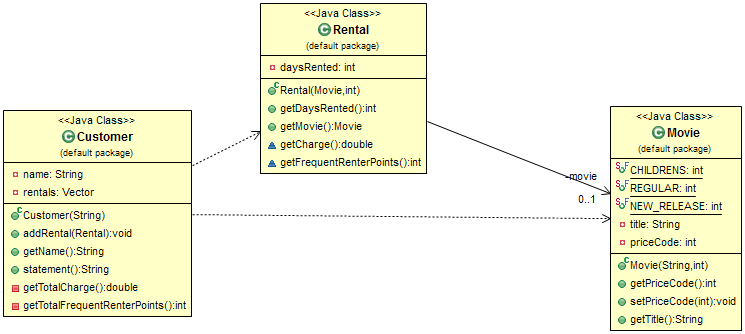
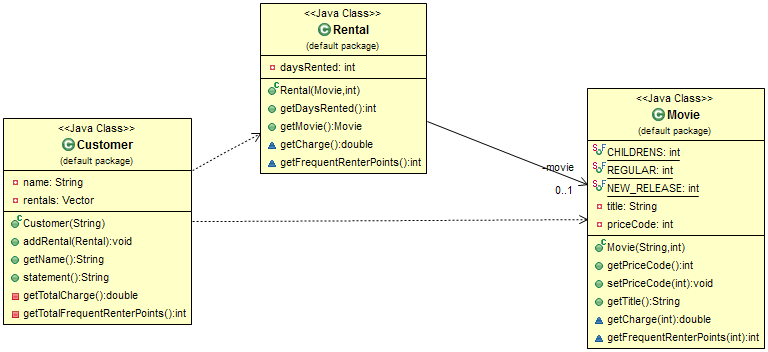
Change: Used Move Methode(http://refactoring.com/catalog/moveMethod.html) to move getCharge() and getFrequentRenterPoints() to Movie according to Fowler; Updated Class Diagram and Metrics

Changed region(s): [[0.0, 0.0, 1.0, 1.0]]

diff --git a/src/Rental.java b/src/Rental.java
@@ -12,30 +12,9 @@ class Rental {
         return movie;
     }
 	double getCharge() {
-		double result = 0;
-		//determine amounts for each line
-	    switch (getMovie().getPriceCode()) {
-	        case Movie.REGULAR:
-	        	result += 2;
-	        	if (getDaysRented() > 2)
-	            	result += (getDaysRented() - 2) * 1.5;
-	        	break;
-	        case Movie.NEW_RELEASE:
-	        	result += getDaysRented() * 3;
-	        	break;
-	        case Movie.CHILDRENS:
-	        	result += 1.5;
-	        	if (getDaysRented() > 3)
-	            	result += (getDaysRented() - 3) * 1.5;
-	        	break;
-	    }
-	    return result;
+		return movie.getCharge(getDaysRented());
 	}
 	int getFrequentRenterPoints() {
-		if((getMovie().getPriceCode() == Movie.NEW_RELEASE) && getDaysRented() > 1) {
-			return 2;
-		} else {
-			return 1;
-		}
+		return movie.getFrequentRenterPoints(getDaysRented());
 	}
 }

diff --git a/src/Movie.java b/src/Movie.java
@@ -16,5 +16,32 @@ public class Movie {
     }
     public String getTitle (){
         return title;
-    };
+    }
+	double getCharge(int daysRented) {
+		double result = 0;
+		//determine amounts for each line
+	    switch (getPriceCode()) {
+	        case Movie.REGULAR:
+	        	result += 2;
+	        	if (daysRented > 2)
+	            	result += (daysRented - 2) * 1.5;
+	        	break;
+	        case Movie.NEW_RELEASE:
+	        	result += daysRented * 3;
+	        	break;
+	        case Movie.CHILDRENS:
+	        	result += 1.5;
+	        	if (daysRented > 3)
+	            	result += (daysRented - 3) * 1.5;
+	        	break;
+	    }
+	    return result;
+	}
+	int getFrequentRenterPoints(int daysRented) {
+		if((getPriceCode() == Movie.NEW_RELEASE) && daysRented > 1) {
+			return 2;
+		} else {
+			return 1;
+		}
+	};
 }
